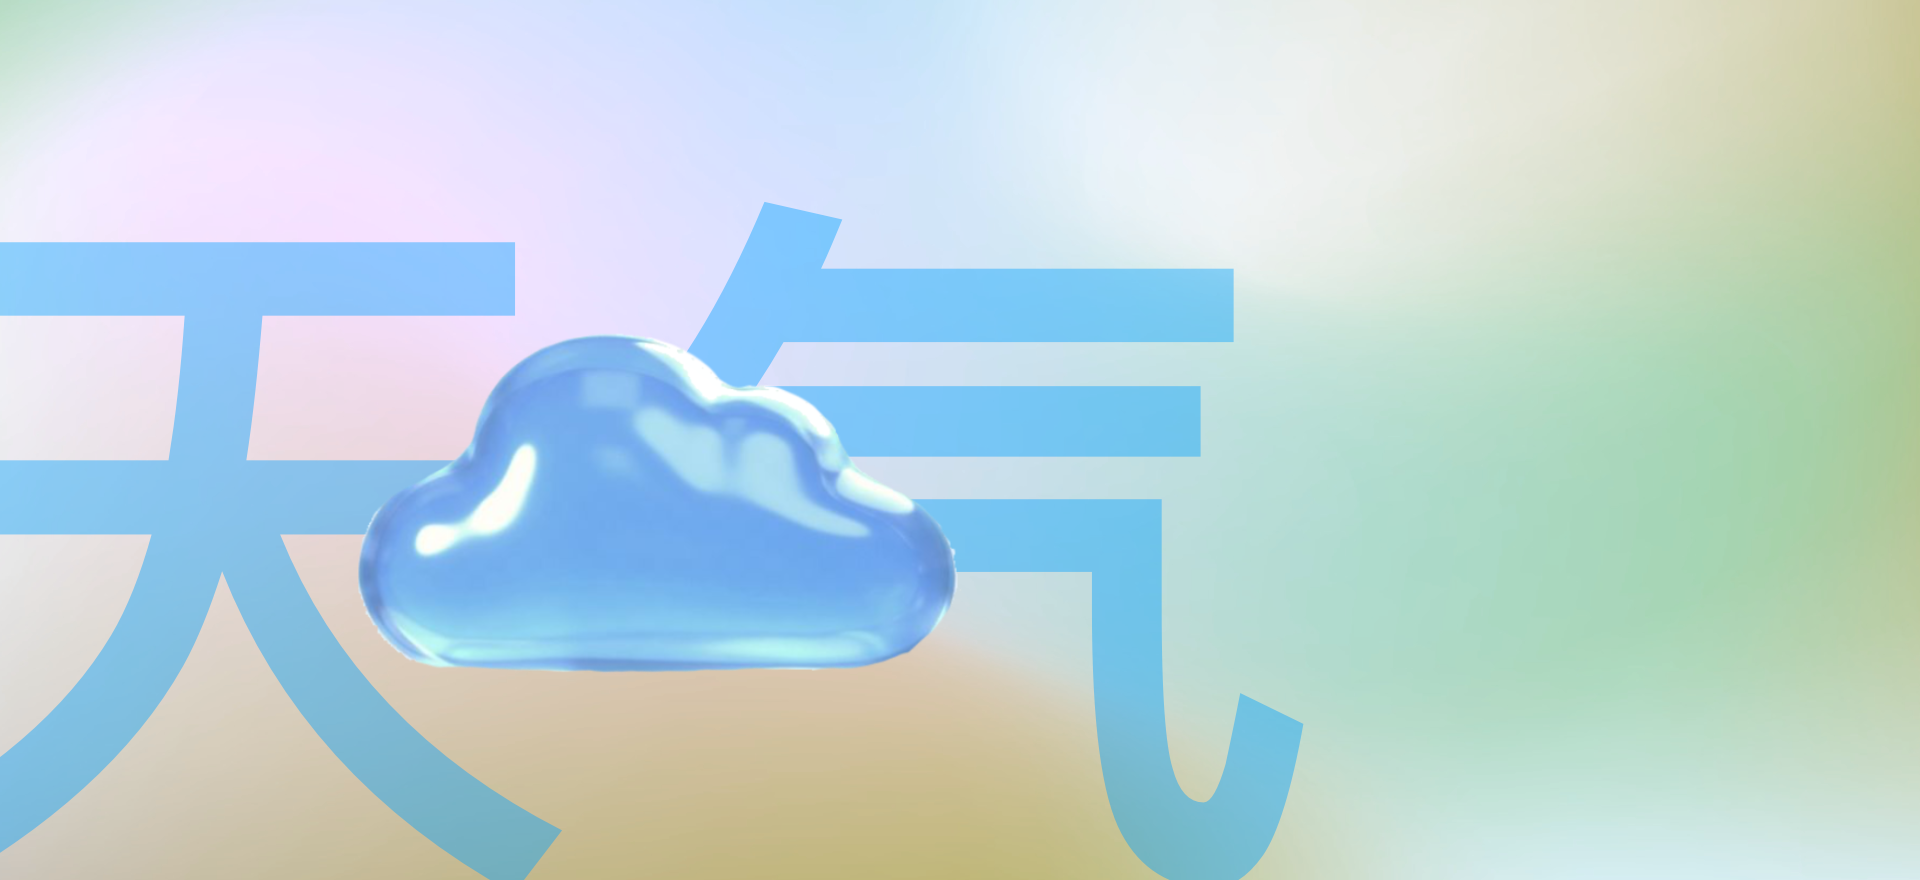
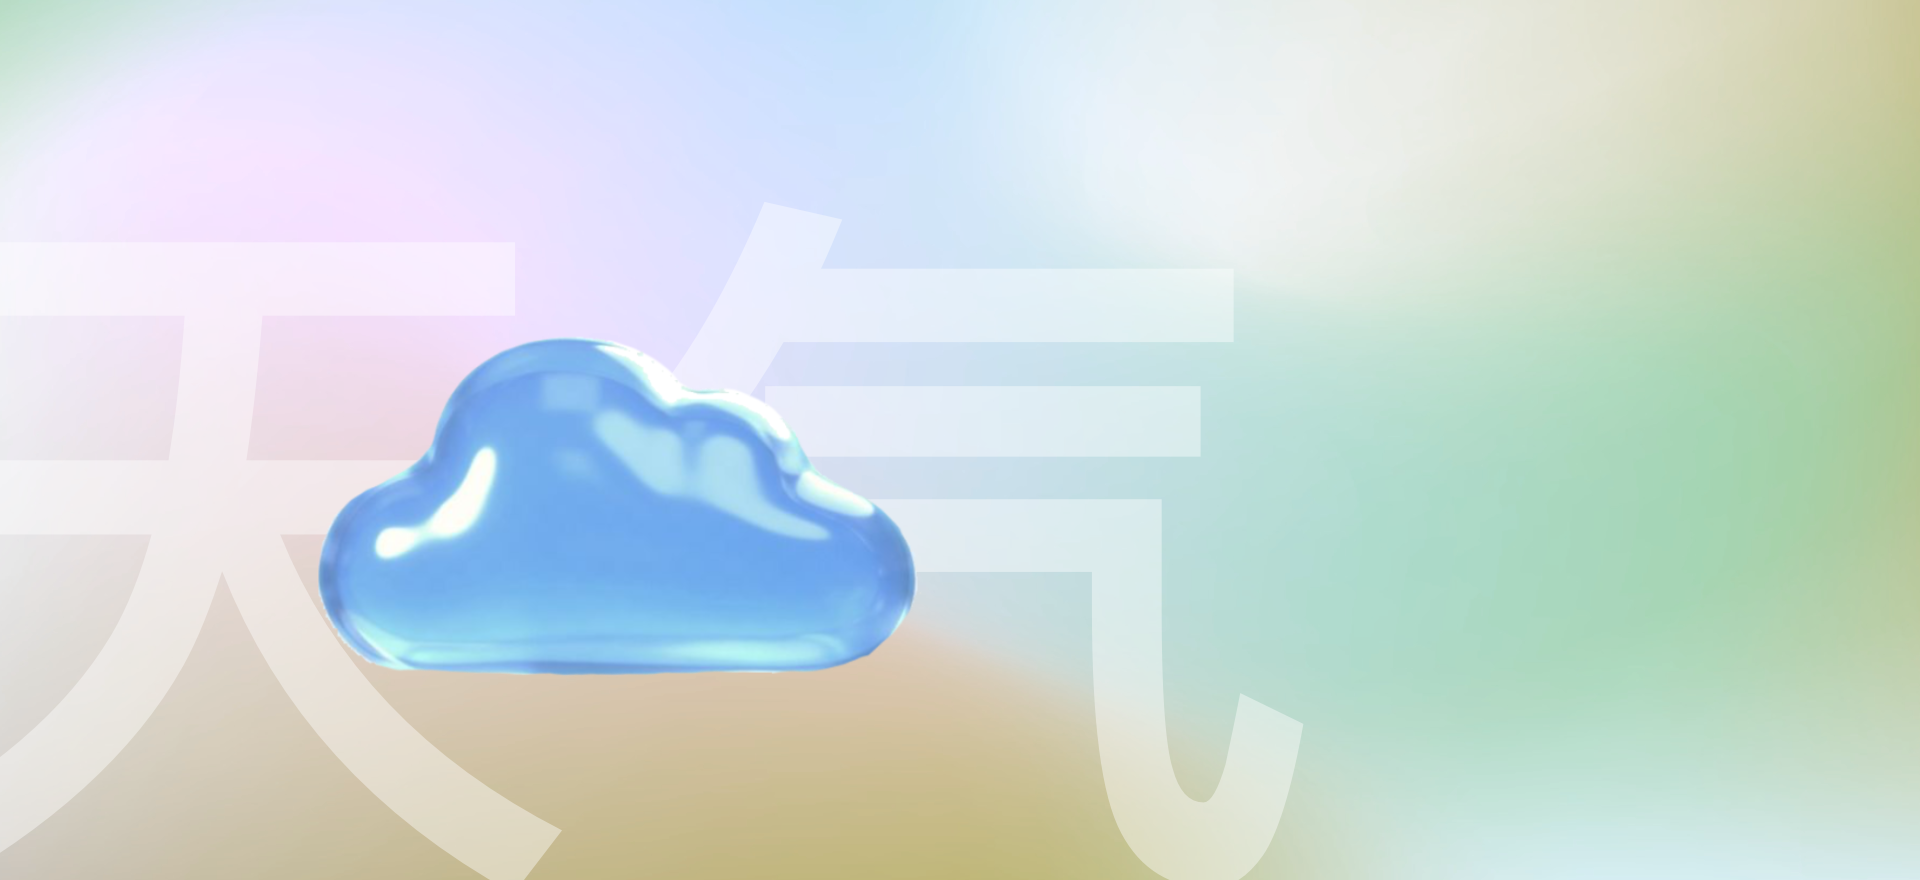
adding more styling

Changed region(s): [[0.0, 0.2148, 0.6875, 1.0]]

diff --git a/src/components/current-weather/current-weather.css b/src/components/current-weather/current-weather.css
@@ -1,13 +1,12 @@
 .weather {
-    width: 800px;
-    height: 500px;
+    width: 600px;
     border-radius: 6px;
-    box-shadow: 10px -2px 20px 2px rgba(44, 95, 162, 0.17);
-    color: #ffffff;
+    /* box-shadow: 10px -2px 20px 2px rgba(44, 95, 162, 0.17); */
+    color: #78b7ff;
     margin: 20px auto 0 auto;
-    padding: 0 20px 20px 20px;
-    background-color: rgba(10, 67, 37, 0.367);
-    font-family: 'Courier New', Courier, monospace;
+    padding: 40px 20px 20px 40px;
+    /* background-color: rgba(10, 67, 37, 0.367); */
+
     /* background-image: url(../../assets/subway.png); */
   }
   
@@ -24,6 +23,8 @@
     line-height: 1;
     margin: 0;
     letter-spacing: 1px;
+    font-family: 'NameFont';
+    padding-bottom: 10px;
   }
   
   .weather-description {
@@ -31,10 +32,11 @@
     font-size: 20px;
     line-height: 1;
     margin: 0;
+    font-family: 'NameFont';
   }
   
   .weather-icon {
-    width: 100px;
+    width: 200px;
   }
   
   .temperature {
@@ -43,6 +45,8 @@
     width: auto;
     letter-spacing: -5px;
     margin: 10px 0;
+    position: relative;
+    top: -50px;
   }
   
   .details {

diff --git a/src/index.css b/src/index.css
@@ -10,3 +10,9 @@ code {
   font-family: source-code-pro, Menlo, Monaco, Consolas, 'Courier New',
     monospace;
 }
+
+@font-face {
+  font-family: 'NameFont';
+  src: url("./assets/font1.ttf")
+  format('truetype');
+}

diff --git a/src/App.css b/src/App.css
@@ -13,5 +13,6 @@
 
 .weather{
   position: relative;
+  top: 0px;
   left: 300px;
 }
